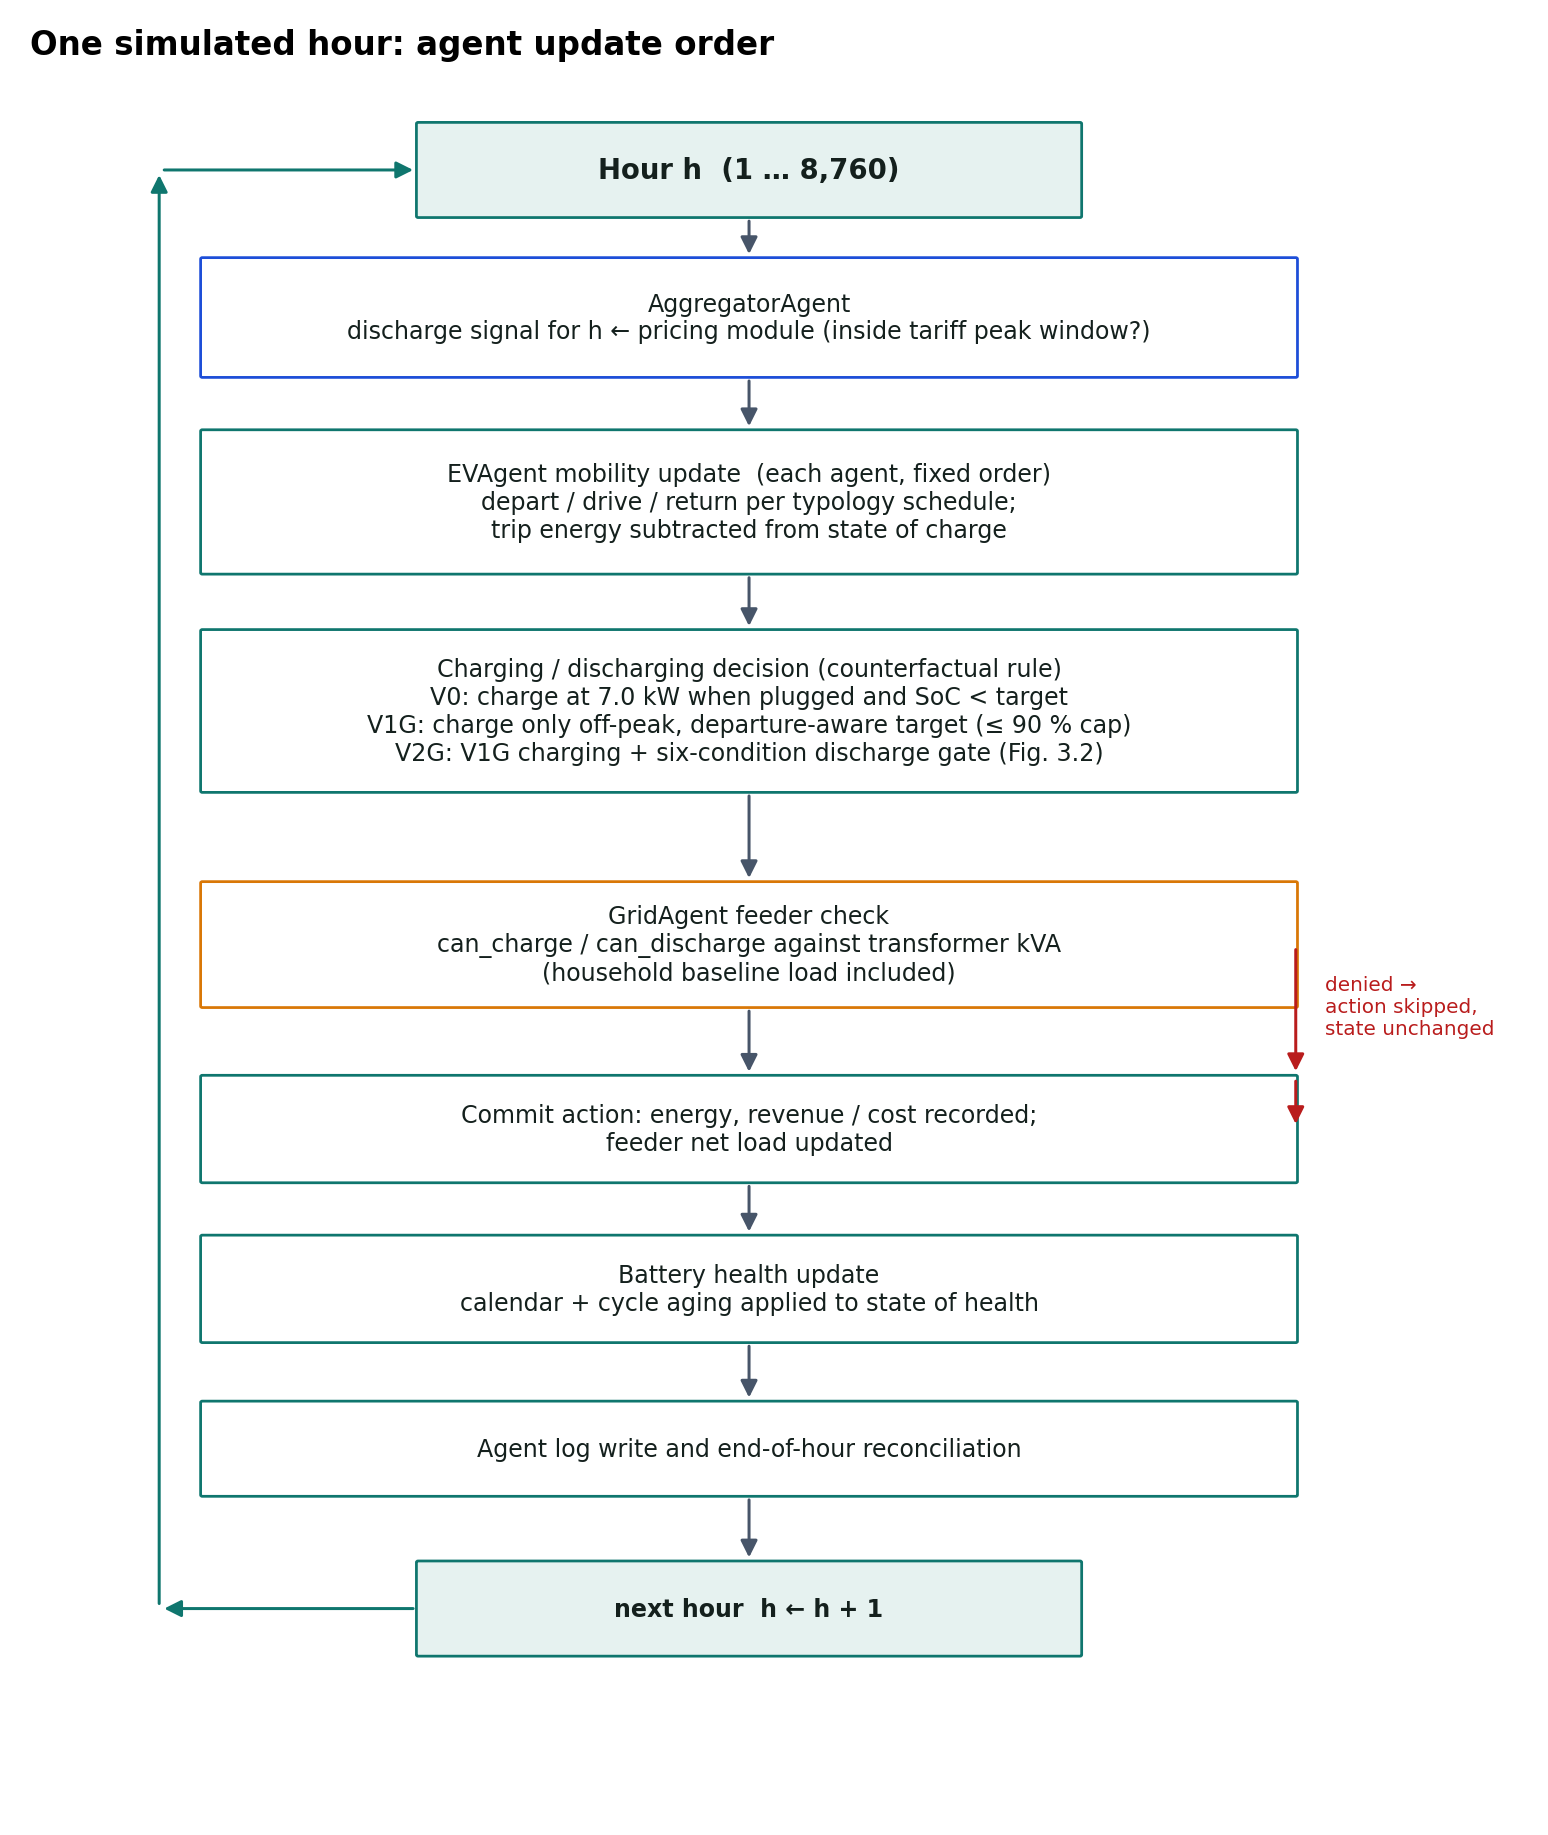
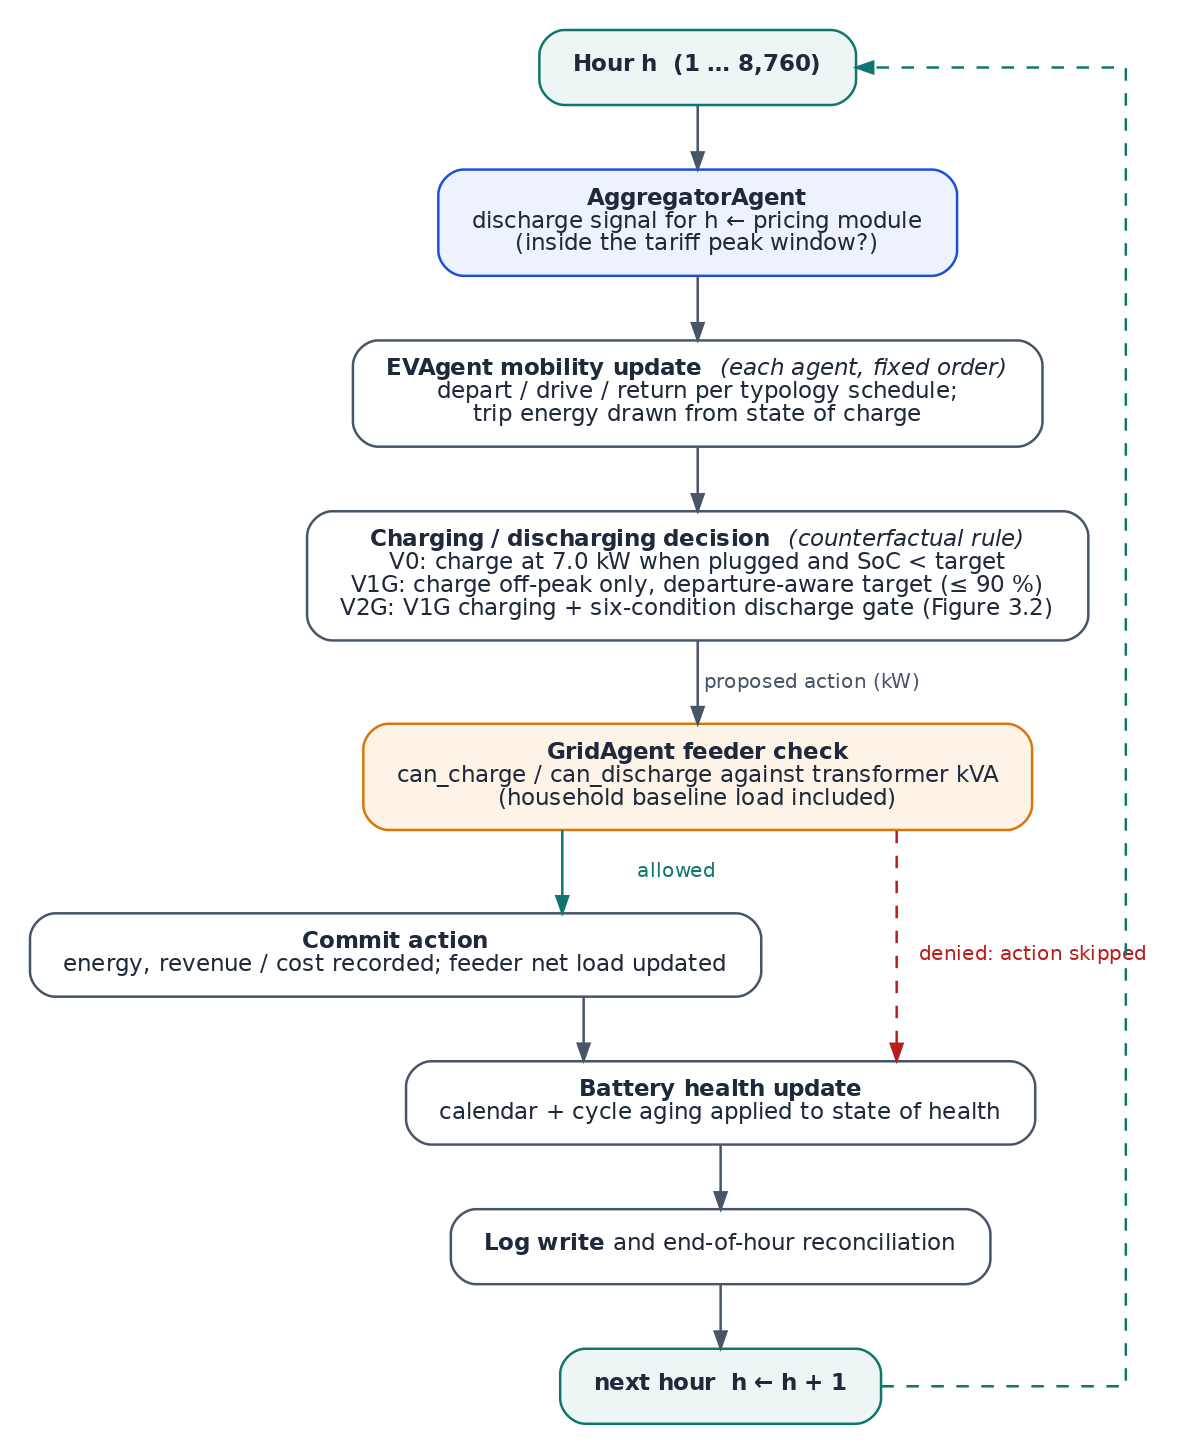
plot_w13c_model_diagrams.py

diff --git a/src/plot_w13c_model_diagrams.py b/src/plot_w13c_model_diagrams.py
@@ -1,6 +1,6 @@
 """Methodology diagrams: hourly simulation flow + EVAgent state machine.
 
-Two figures for Chapter 3 (supervisor request, Meeting 8):
+Rendered with Graphviz (dot) for publication-quality layout.
   w13c_model_flow.png     - one simulated hour, agent update order
   w13c_state_machine.png  - EVAgent operational states and transitions
 
@@ -11,145 +11,101 @@ gate, 7.0 kW charge / 9.6 kW discharge, 50 % floor, 90 % max_soc cap.
 Run:  python -m src.plot_w13c_model_diagrams
 """
 
+import subprocess
 from pathlib import Path
-
-import matplotlib.pyplot as plt
-from matplotlib.patches import FancyBboxPatch, FancyArrowPatch
-
-from src.plot_style import apply_style, PALETTE
-
-apply_style()
 
 OUT_DIR = Path(__file__).resolve().parent.parent / "outputs"
 
-INK = "#14201d"
+INK    = "#1e293b"
+TEAL   = "#0f766e"
+BLUE   = "#1d4ed8"
+AMBER  = "#d97706"
+RED    = "#b91c1c"
+GREY   = "#475569"
+TEAL_F = "#eef6f5"
+BLUE_F = "#eef2fd"
+AMBERF = "#fdf3e7"
+
+FLOW_DOT = f"""
+digraph flow {{
+  graph [rankdir=TB, splines=ortho, nodesep=0.5, ranksep=0.42,
+         fontname="Helvetica", bgcolor="white", dpi=150, pad=0.2];
+  node  [shape=box, style="rounded,filled", fontname="Helvetica",
+         fontsize=11, color="{GREY}", fillcolor="white",
+         fontcolor="{INK}", penwidth=1.2, margin="0.22,0.12"];
+  edge  [color="{GREY}", penwidth=1.2, arrowsize=0.8,
+         fontname="Helvetica", fontsize=9.5, fontcolor="{GREY}"];
+
+  hour  [label=<<B>Hour h&nbsp; (1 &hellip; 8,760)</B>>,
+         fillcolor="{TEAL_F}", color="{TEAL}"];
+  agg   [label=<<B>AggregatorAgent</B><BR/>discharge signal for h &larr; pricing module<BR/>(inside the tariff peak window?)>,
+         fillcolor="{BLUE_F}", color="{BLUE}"];
+  mob   [label=<<B>EVAgent mobility update</B> &nbsp;<I>(each agent, fixed order)</I><BR/>depart / drive / return per typology schedule;<BR/>trip energy drawn from state of charge>];
+  dec   [label=<<B>Charging / discharging decision</B> &nbsp;<I>(counterfactual rule)</I><BR/>V0: charge at 7.0 kW when plugged and SoC &lt; target<BR/>V1G: charge off-peak only, departure-aware target (&le; 90 %)<BR/>V2G: V1G charging + six-condition discharge gate (Figure 3.2)>];
+  grid  [label=<<B>GridAgent feeder check</B><BR/>can_charge / can_discharge against transformer kVA<BR/>(household baseline load included)>,
+         fillcolor="{AMBERF}", color="{AMBER}"];
+  commit[label=<<B>Commit action</B><BR/>energy, revenue / cost recorded; feeder net load updated>];
+  aging [label=<<B>Battery health update</B><BR/>calendar + cycle aging applied to state of health>];
+  log   [label=<<B>Log write</B> and end-of-hour reconciliation>];
+  next  [label=<<B>next hour&nbsp; h &larr; h + 1</B>>,
+         fillcolor="{TEAL_F}", color="{TEAL}"];
+
+  hour -> agg -> mob -> dec;
+  dec  -> grid  [label=" proposed action (kW)"];
+  grid -> commit[label=" allowed", fontcolor="{TEAL}", color="{TEAL}"];
+  grid -> aging [label=" denied: action skipped ", fontcolor="{RED}",
+                 color="{RED}", style=dashed];
+  commit -> aging -> log -> next;
+  next -> hour [style=dashed, color="{TEAL}", constraint=false];
+}}
+"""
+
+SM_DOT = f"""
+digraph sm {{
+  graph [rankdir=TB, splines=true, nodesep=0.9, ranksep=1.0,
+         fontname="Helvetica", bgcolor="white", dpi=150, pad=0.25];
+  node  [shape=box, style="rounded,filled", fontname="Helvetica",
+         fontsize=11, fontcolor="{INK}", penwidth=1.4,
+         margin="0.25,0.14"];
+  edge  [fontname="Helvetica", fontsize=9, color="{GREY}",
+         fontcolor="{INK}", penwidth=1.1, arrowsize=0.8,
+         labeldistance=2.0];
+
+  driving [label=<<B>DRIVING</B><BR/>away, SoC falling>,
+           color="{RED}", fillcolor="#fdf0ef"];
+  parked  [label=<<B>PARKED, NOT PLUGGED</B><BR/>home or away>,
+           color="{GREY}", fillcolor="#f4f5f7"];
+  plugged [label=<<B>PLUGGED, IDLE</B><BR/>home charger connected>,
+           color="{TEAL}", fillcolor="{TEAL_F}"];
+  charging[label=<<B>CHARGING</B><BR/>7.0 kW, up to target &le; 90 %>,
+           color="{BLUE}", fillcolor="{BLUE_F}"];
+  discharging [label=<<B>DISCHARGING (V2G)</B><BR/>9.6 kW, down to the 50 % floor>,
+           color="{AMBER}", fillcolor="{AMBERF}"];
+
+  {{ rank=same; driving; parked; }}
+  {{ rank=same; charging; discharging; }}
+
+  driving -> parked   [label="return home,\\nno plug-in (13 %)"];
+  parked  -> driving  [label="departure\\nhour"];
+  driving -> plugged  [label="return home, plug in\\n(87 % of evenings)"];
+  parked  -> plugged  [label="plug in later"];
+  plugged -> driving  [label="departure hour\\n(unplug)"];
+  plugged -> charging [label="charging rule fires\\nV0: SoC &lt; target\\nV1G/V2G: off-peak"];
+  charging -> plugged [label="target reached\\n(&le; 90 % cap)"];
+  plugged -> discharging [label="six-condition gate TRUE\\nsignal &middot; opt-in &middot; capable &middot;\\nSoC &gt; 50 % &middot; price &ge; OSP &middot; retailer"];
+  discharging -> plugged [label="signal ends, SoC &le; 50 %,\\nor feeder denial"];
+}}
+"""
 
 
-def box(ax, x, y, w, h, text, fc="#ffffff", ec=PALETTE["neutral"],
-        fs=9.5, bold=False, tc=None):
-    ax.add_patch(FancyBboxPatch((x - w/2, y - h/2), w, h,
-                 boxstyle="round,pad=0.012", linewidth=1.1,
-                 facecolor=fc, edgecolor=ec))
-    ax.text(x, y, text, ha="center", va="center", fontsize=fs,
-            fontweight="bold" if bold else "normal", color=tc or INK)
-
-
-def arrow(ax, x1, y1, x2, y2, text=None, color=None, style="-|>",
-          conn="arc3,rad=0.0", fs=8, tx=None, ty=None):
-    color = color or PALETTE["neutral"]
-    ax.add_patch(FancyArrowPatch((x1, y1), (x2, y2), arrowstyle=style,
-                 mutation_scale=14, linewidth=1.2, color=color,
-                 connectionstyle=conn))
-    if text:
-        ax.text(tx if tx is not None else (x1+x2)/2,
-                ty if ty is not None else (y1+y2)/2,
-                text, fontsize=fs, ha="center", va="center", color=color,
-                bbox=dict(boxstyle="round,pad=0.15", fc="white", ec="none",
-                          alpha=0.9))
-
-
-def flow() -> None:
-    fig, ax = plt.subplots(figsize=(8.6, 10.2))
-    ax.set_xlim(0, 10); ax.set_ylim(0, 14); ax.axis("off")
-
-    teal, blue, amber, red = (PALETTE["israel"], PALETTE["uk"],
-                              PALETTE["amber"], PALETTE["cost"])
-
-    box(ax, 5, 13.3, 4.6, 0.75, "Hour h  (1 … 8,760)", fc="#e6f2f0",
-        ec=teal, bold=True, fs=11)
-    box(ax, 5, 12.1, 7.6, 0.95,
-        "AggregatorAgent\ndischarge signal for h ← pricing module (inside tariff peak window?)",
-        ec=blue)
-    box(ax, 5, 10.6, 7.6, 1.15,
-        "EVAgent mobility update  (each agent, fixed order)\n"
-        "depart / drive / return per typology schedule;\n"
-        "trip energy subtracted from state of charge", ec=teal)
-    box(ax, 5, 8.9, 7.6, 1.3,
-        "Charging / discharging decision (counterfactual rule)\n"
-        "V0: charge at 7.0 kW when plugged and SoC < target\n"
-        "V1G: charge only off-peak, departure-aware target (≤ 90 % cap)\n"
-        "V2G: V1G charging + six-condition discharge gate (Fig. 3.2)", ec=teal)
-    box(ax, 5, 7.0, 7.6, 1.0,
-        "GridAgent feeder check\ncan_charge / can_discharge against transformer kVA\n"
-        "(household baseline load included)", ec=amber)
-    box(ax, 5, 5.5, 7.6, 0.85,
-        "Commit action: energy, revenue / cost recorded;\nfeeder net load updated", ec=teal)
-    box(ax, 5, 4.2, 7.6, 0.85,
-        "Battery health update\ncalendar + cycle aging applied to state of health", ec=teal)
-    box(ax, 5, 2.9, 7.6, 0.75,
-        "Agent log write and end-of-hour reconciliation", ec=teal)
-    box(ax, 5, 1.6, 4.6, 0.75, "next hour  h ← h + 1", fc="#e6f2f0",
-        ec=teal, bold=True)
-
-    ys = [(13.3, 12.1, 0.75, 0.95), (12.1, 10.6, 0.95, 1.15),
-          (10.6, 8.9, 1.15, 1.3), (8.9, 7.0, 1.3, 1.0),
-          (7.0, 5.5, 1.0, 0.85), (5.5, 4.2, 0.85, 0.85),
-          (4.2, 2.9, 0.85, 0.75), (2.9, 1.6, 0.75, 0.75)]
-    for y1, y2, h1, h2 in ys:
-        arrow(ax, 5, y1 - h1/2, 5, y2 + h2/2)
-
-    # denial branch
-    arrow(ax, 8.8, 7.0, 8.8, 5.93, color=red, conn="arc3,rad=0.0")
-    ax.text(9.0, 6.5, "denied →\naction skipped,\nstate unchanged", fontsize=8,
-            color=red, ha="left", va="center")
-    arrow(ax, 5+3.8, 7.0, 8.8, 7.0, color=red)
-    arrow(ax, 8.8, 5.93, 5+3.8, 5.5, color=red)
-
-    # loop back
-    arrow(ax, 5-2.3, 1.6, 0.9, 1.6, color=teal)
-    arrow(ax, 0.9, 1.6, 0.9, 13.3, color=teal, conn="arc3,rad=0.0")
-    arrow(ax, 0.9, 13.3, 5-2.3, 13.3, color=teal)
-
-    ax.set_title("One simulated hour: agent update order",
-                 fontsize=13, fontweight="bold", pad=12)
-    fig.tight_layout()
-    fig.savefig(OUT_DIR / "w13c_model_flow.png")
-    print("Saved", OUT_DIR / "w13c_model_flow.png")
-
-
-def state_machine() -> None:
-    fig, ax = plt.subplots(figsize=(10.5, 7.4))
-    ax.set_xlim(0, 14); ax.set_ylim(0, 10); ax.axis("off")
-
-    teal, blue, amber, red = (PALETTE["israel"], PALETTE["uk"],
-                              PALETTE["amber"], PALETTE["cost"])
-
-    # states
-    box(ax, 2.4, 8.3, 3.4, 1.05, "DRIVING\n(away, SoC falling)", ec=red, bold=True)
-    box(ax, 8.0, 8.3, 4.4, 1.05, "PARKED - NOT PLUGGED\n(home or away)", ec=PALETTE["neutral"], bold=True)
-    box(ax, 8.0, 5.0, 4.4, 1.05, "PLUGGED - IDLE\n(home charger connected)", ec=teal, bold=True)
-    box(ax, 2.6, 2.0, 3.8, 1.05, "CHARGING\n7.0 kW, up to target ≤ 90 %", ec=blue, bold=True)
-    box(ax, 11.6, 2.0, 4.2, 1.05, "DISCHARGING (V2G)\n9.6 kW, down to 50 % floor", ec=amber, bold=True)
-
-    arrow(ax, 4.1, 8.3, 5.8, 8.3, "return home,\nno plug-in (13 %)", conn="arc3,rad=0.25",
-          tx=4.95, ty=9.2)
-    arrow(ax, 5.8, 8.05, 4.1, 8.05, "departure hour", tx=4.95, ty=7.7)
-    arrow(ax, 3.3, 8.3-0.52, 6.6, 5.0+0.55, "return home, plug in\n(87 % of evenings)",
-          conn="arc3,rad=-0.15", tx=3.7, ty=6.4)
-    arrow(ax, 8.0, 8.3-0.52, 8.0, 5.0+0.55, "plug in later", tx=8.75, ty=6.65)
-    arrow(ax, 8.0-2.2, 5.0, 2.6, 2.0+0.55, "charging rule fires\n(V0: SoC<target;\nV1G/V2G: off-peak)",
-          conn="arc3,rad=-0.1", tx=3.4, ty=4.1)
-    arrow(ax, 3.6, 2.0+0.55, 8.0-1.2, 5.0-0.55, "target reached\n(≤ 90 % cap)",
-          conn="arc3,rad=-0.15", tx=6.3, ty=2.9)
-    arrow(ax, 8.0+2.2, 5.0, 11.6, 2.0+0.55, "six-condition gate TRUE\n(signal · opt-in · capable ·\nSoC>50 % · price≥OSP · retailer)",
-          conn="arc3,rad=-0.1", tx=12.15, ty=4.35)
-    arrow(ax, 10.8, 2.0+0.55, 8.0+1.2, 5.0-0.55, "signal ends, SoC≤50 %,\nor feeder denial",
-          conn="arc3,rad=-0.15", tx=9.0, ty=2.75)
-    arrow(ax, 6.6, 5.0+0.35, 2.4+1.2, 8.3-0.35, "departure hour (unplug)",
-          conn="arc3,rad=0.35", tx=3.35, ty=5.4)
-
-    ax.set_title("EVAgent operational state machine (V2G counterfactual)",
-                 fontsize=13, fontweight="bold", pad=10)
-    fig.text(0.5, 0.02,
-             "States and transitions as implemented in agents/ev_agent.py.  V0 and V1G use the same machine "
-             "without the DISCHARGING state;\nV1G additionally applies the off-peak charging window and the "
-             "departure-aware overnight target.",
-             ha="center", fontsize=8.5, color=PALETTE["neutral"])
-    fig.tight_layout(rect=(0, 0.05, 1, 1))
-    fig.savefig(OUT_DIR / "w13c_state_machine.png")
-    print("Saved", OUT_DIR / "w13c_state_machine.png")
+def render(dot_src: str, out_png: Path) -> None:
+    p = subprocess.run(["dot", "-Tpng", "-o", str(out_png)],
+                       input=dot_src.encode(), capture_output=True)
+    if p.returncode != 0:
+        raise RuntimeError(p.stderr.decode()[:2000])
+    print("Saved", out_png)
 
 
 if __name__ == "__main__":
-    flow()
-    state_machine()
+    render(FLOW_DOT, OUT_DIR / "w13c_model_flow.png")
+    render(SM_DOT, OUT_DIR / "w13c_state_machine.png")
